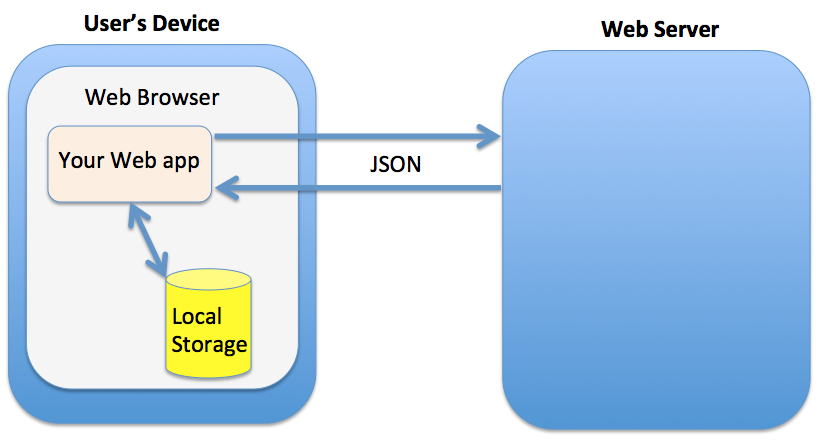
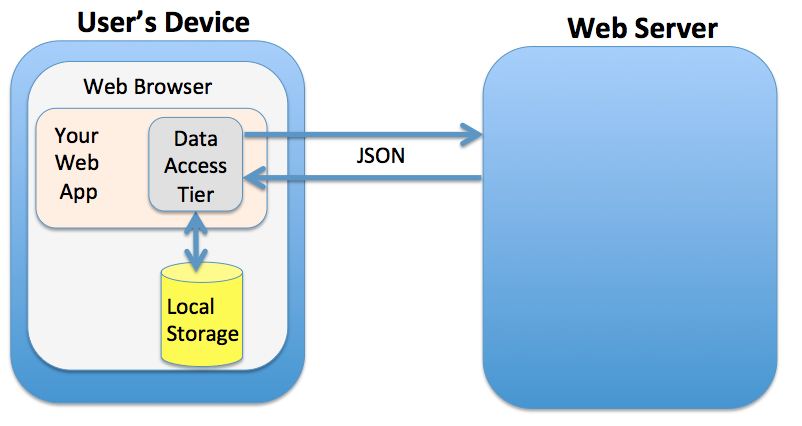
book generated and deployed at 06/10/2013-09:43:58

diff --git a/index.html b/index.html
@@ -3586,9 +3586,10 @@ http://www.gnu.org/software/src-highlite -->
 <div class="content">
 <img src="images/fig_01_03.png" alt="images/fig_01_03.png">
 </div>
-<div class="title">Figure 26. A sample Design with Offline Use</div>
+<div class="title">Figure 26. Design with Offline Use in Mind</div>
 </div>
 <div class="paragraph"><p>The business logic that supports the client&#8217;s offline functionality should be developed in JavaScript and run in the Web browser. While most of the business logic of Web applications remains on the server side, the Web client is not as thin as it used to be in legacy HTML-based applications. The client becomes fatter and it can have state.</p></div>
+<div class="paragraph"><p>It&#8217;s a good idea to create a data layer in your JavaScript code that will be responsible for all data communications. If the Internet connection is available, the data layer will be making  requests to the server, otherwise it&#8217;ll get the data from the local storage.</p></div>
 </div>
 <div class="sect3">
 <h4 id="_application_cache">Application Cache</h4>
@@ -3616,6 +3617,26 @@ http://www.gnu.org/software/src-highlite -->
   ...
 <span style="font-weight: bold"><span style="color: #0000FF">&lt;/html&gt;</span></span></tt></pre></div></div>
 <div class="paragraph"><p>The Web server must serve the manifest file with a MIME type "text/cache-manifest", and you need to refer to the documentation of your Web server to see how to see where to make a configuration change so all files with extension .manifest are served as "text/cache-manifest".</p></div>
+<div class="sect4">
+<h5 id="_is_your_application_offline">Is Your Application Offline?</h5>
+<div class="paragraph"><p>Web browsers have a <span class="monospaced">boolean</span> property <span class="monospaced">window.navigator.onLine</span>, which should be used to check if there is no connection to the Internet. The HTML5 specification states that <em>"The navigator.onLine attribute must return false if the user agent will not contact the network when the user follows links or when a script requests a remote page (or knows that such an attempt would fail), and must return true otherwise."</em> Unfortunately, major Web browsers deal with this property differently so you need to do a thorough testing to see if it works as expected with the browser you care about.</p></div>
+<div class="paragraph"><p>To intercept the changes in the connectivity status, you can also assign event listeners to the <span class="monospaced">online</span> and <span class="monospaced">offline</span> events, for example:</p></div>
+<div class="listingblock">
+<div class="content"><!-- Generator: GNU source-highlight 3.1.7
+by Lorenzo Bettini
+http://www.lorenzobettini.it
+http://www.gnu.org/software/src-highlite -->
+<pre><tt>window<span style="color: #990000">.</span><span style="font-weight: bold"><span style="color: #000000">addEventListener</span></span><span style="color: #990000">(</span><span style="color: #FF0000">"offline"</span><span style="color: #990000">,</span> <span style="font-weight: bold"><span style="color: #0000FF">function</span></span><span style="color: #990000">(</span>e<span style="color: #990000">)</span> <span style="color: #FF0000">{</span>
+    <span style="font-style: italic"><span style="color: #9A1900">// The code to be used in the offline mode goes here</span></span>
+<span style="color: #FF0000">}</span><span style="color: #990000">);</span>
+
+window<span style="color: #990000">.</span><span style="font-weight: bold"><span style="color: #000000">addEventListener</span></span><span style="color: #990000">(</span><span style="color: #FF0000">"online"</span><span style="color: #990000">,</span> <span style="font-weight: bold"><span style="color: #0000FF">function</span></span><span style="color: #990000">(</span>e<span style="color: #990000">)</span> <span style="color: #FF0000">{</span>
+    <span style="font-style: italic"><span style="color: #9A1900">// The code to synchronize the data saved in the offline mode</span></span>
+    <span style="font-style: italic"><span style="color: #9A1900">// (if any) goes here</span></span>
+<span style="color: #FF0000">}</span><span style="color: #990000">);</span></tt></pre></div></div>
+<div class="paragraph"><p>You can also add the <span class="monospaced">onoffline</span> and <span class="monospaced">ononline</span> event handlers to the <span class="monospaced">&lt;body&gt;</span> tag of your HTML page or to the <span class="monospaced">document</span> object. Again, test the support of these event in your browsers.</p></div>
+<div class="paragraph"><p>What if the browser&#8217;s support of the offline/online events is still not stable? In this you&#8217;ll have to write your own script that will periodically make an AJAX call (see Chapter 4) trying to connect to a remote server that&#8217;s always up and running, e.g. google.com. If this request fails, it&#8217;s a good indication that your application is disconnected from the Internet.</p></div>
+</div>
 </div>
 <div class="sect3">
 <h4 id="_options_for_storing_data_locally">Options for Storing Data Locally</h4>
@@ -3632,7 +3653,7 @@ http://www.gnu.org/software/src-highlite -->
 </p>
 </li>
 </ul></div>
-<div class="paragraph"><p>There is another option worth mentioning - <a href="http://www.w3.org/TR/webdatabase/">Web SQL Database</a>. It&#8217;s based on the open source SQLite database, but the work on this specification is stopped and future versions of the browsers may not support it. That&#8217;s why we are not going to discuss Web SQL here.</p></div>
+<div class="paragraph"><p>There is another option worth mentioning - <a href="http://www.w3.org/TR/webdatabase/">Web SQL Database</a>. The specification was based on the open source SQLite database, which probably was the wrong decision in the foirst place.  But the work on this specification is stopped and future versions of the browsers may not support it. That&#8217;s why we are not going to discuss Web SQL Database in this book.</p></div>
 <div class="paragraph"><p>At the time of this writing (Summer of 2013) local and session storage are supported by all modern Web browsers. Web SQL database is not supported by Firefox and Internet Explorer and most likely will never be. IndexedDB is the Web storage format of the future, but Safari doesn&#8217;t support it yet, so if your main development platform is iOS, you may need to stick to Web SQL database. Consider using a polyfill for indexedDB using Web SQL API called <a href="https://github.com/axemclion/IndexedDBShim">IndexedDBShim</a>.</p></div>
 <div class="paragraph"><p>To get the current status visit caniuse.com and search for the API you&#8217;re interested in.</p></div>
 <div class="admonitionblock">
@@ -3789,6 +3810,7 @@ Re-reading visit info after removal
 <td class="content">If you are interested in intercepting the moments when the content of local storage gets modified, listen to the DOM <span class="monospaced">storage</span> event, which carries the old and new values and the URL of the page whose data is being changed.</td>
 </tr></table>
 </div>
+<div class="paragraph"><p>The Web storage API is pretty simple to use, but its major drawbacks are that it doesn&#8217;t give you a way to put any structure to your stored data, you always have to store strings, and the API is synchronous, which may case delays in the user interaction when your application is accessing the disk. In the next section you&#8217;ll learn about a more advanced way of storing data on the user&#8217;s computer.</p></div>
 </div>
 <div class="sect3">
 <h4 id="_indexeddb">IndexedDB</h4>
@@ -3803,27 +3825,68 @@ http://www.lorenzobettini.it
 http://www.gnu.org/software/src-highlite -->
 <pre><tt>window<span style="color: #990000">.</span>indexedDB <span style="color: #990000">=</span> window<span style="color: #990000">.</span>indexedDB <span style="color: #990000">||</span> window<span style="color: #990000">.</span>mozIndexedDB
       <span style="color: #990000">||</span> window<span style="color: #990000">.</span>msIndexedDB <span style="color: #990000">||</span> window<span style="color: #990000">.</span>webkitIndexedDB <span style="color: #990000">;</span>
-window<span style="color: #990000">.</span>IDBTransaction <span style="color: #990000">=</span> window<span style="color: #990000">.</span>IDBTransaction <span style="color: #990000">||</span> window<span style="color: #990000">.</span>webkitIDBTransaction<span style="color: #990000">;</span>
-window<span style="color: #990000">.</span>IDBCursor <span style="color: #990000">=</span> window<span style="color: #990000">.</span>IDBCursor <span style="color: #990000">||</span> window<span style="color: #990000">.</span>webkitIDBCursor<span style="color: #990000">;</span>
-window<span style="color: #990000">.</span>IDBKeyRange <span style="color: #990000">=</span> window<span style="color: #990000">.</span>IDBKeyRange <span style="color: #990000">||</span> window<span style="color: #990000">.</span>webkitIDBKeyRange<span style="color: #990000">;</span></tt></pre></div></div>
-<div class="paragraph"><p>Every object that you are planning to store in the database has to have one property that plays a role similar to a primary key in a relational database. You have to decide if you want to maintain the value in this property manually, or use the the autoincrement option where the values to this property will be assigned automatically.</p></div>
-<div class="paragraph"><p>IndexedDB doesn&#8217;t require you to describe a formal structure of your stored object - any JavaScript object can be stored there. This is also an advantage comparing to the relational databases where you can&#8217;t store the data until the structure of the tables is defined.</p></div>
-<div class="paragraph"><p>Similarly to relational databases you create indexes based on the searches that you run often. For example, if you need to search on the contact name in the Visits database, create an index on the property <span class="monospaced">contactPerson</span> of the <span class="monospaced">Visit</span> object. But if in relational database creation of index was optional, with IndexedDB you can&#8217;t run a query unless the index on the relevant property exists.</p></div>
+<span style="font-weight: bold"><span style="color: #0000FF">if</span></span> <span style="color: #990000">(!</span>window<span style="color: #990000">.</span>indexedDB<span style="color: #990000">)</span><span style="color: #FF0000">{</span>
+   <span style="font-style: italic"><span style="color: #9A1900">// this browser doesn't support IndexedDB</span></span>
+<span style="color: #FF0000">}</span> <span style="font-weight: bold"><span style="color: #0000FF">else</span></span> <span style="color: #FF0000">{</span>
+  window<span style="color: #990000">.</span>IDBTransaction <span style="color: #990000">=</span> window<span style="color: #990000">.</span>IDBTransaction <span style="color: #990000">||</span> window<span style="color: #990000">.</span>webkitIDBTransaction<span style="color: #990000">;</span>
+  window<span style="color: #990000">.</span>IDBCursor <span style="color: #990000">=</span> window<span style="color: #990000">.</span>IDBCursor <span style="color: #990000">||</span> window<span style="color: #990000">.</span>webkitIDBCursor<span style="color: #990000">;</span>
+  window<span style="color: #990000">.</span>IDBKeyRange <span style="color: #990000">=</span> window<span style="color: #990000">.</span>IDBKeyRange <span style="color: #990000">||</span> window<span style="color: #990000">.</span>webkitIDBKeyRange<span style="color: #990000">;</span>
+<span style="color: #FF0000">}</span></tt></pre></div></div>
+<div class="paragraph"><p>IndexedDB doesn&#8217;t require you to describe a formal structure of your stored object - any JavaScript object can be stored there. Think of a database as an <em>object store</em> that allows to store similar objects, e.g. representing salesman&#8217;s visits. Not having a formal definition of a database scheme is an advantage comparing to the relational databases where you can&#8217;t store the data until the structure of the tables is defined.</p></div>
+<div class="paragraph"><p>Every object that you are planning to store in the database has to have one property that plays a role similar to a primary key in a relational database. You have to decide if you want to maintain the value in this property manually, or use the the <span class="monospaced">autoIncrement</span> option where the values to this property will be assigned automatically. Coming back to our Visits example, you can either maintain the unique values of the <span class="monospaced">officeId</span> on your own or create a surrogate key that will be assigned by IndexedDB. The current generated number to be used as surrogate keys never decreases, and starts with the value of 1 in each object store.</p></div>
+<div class="paragraph"><p>Similarly to relational databases you create indexes based on the searches that you run often. For example, if you need to search on the contact name in the Visits database, create an index on the property <span class="monospaced">contactPerson</span> of the <span class="monospaced">Visit</span> object. But if in relational databases creation of indexes is done for performance reasons, with IndexedDB you can&#8217;t run a query unless the index on the relevant property exists. The following code sample shows how to connect to the existing or create a new database <span class="monospaced">Visits</span>.</p></div>
 <div class="listingblock">
 <div class="content"><!-- Generator: GNU source-highlight 3.1.7
 by Lorenzo Bettini
 http://www.lorenzobettini.it
 http://www.gnu.org/software/src-highlite -->
 <pre><tt><span style="font-weight: bold"><span style="color: #0000FF">var</span></span> indexedDB <span style="color: #990000">=</span> window<span style="color: #990000">.</span>indexedDB<span style="color: #990000">;</span>
-<span style="font-weight: bold"><span style="color: #0000FF">var</span></span> visits <span style="color: #990000">=</span> indexedDB<span style="color: #990000">.</span><span style="font-weight: bold"><span style="color: #000000">open</span></span><span style="color: #990000">(</span><span style="color: #FF0000">'Visits'</span><span style="color: #990000">);</span>
+<span style="font-weight: bold"><span style="color: #0000FF">var</span></span> request <span style="color: #990000">=</span> indexedDB<span style="color: #990000">.</span><span style="font-weight: bold"><span style="color: #000000">open</span></span><span style="color: #990000">(</span><span style="color: #FF0000">'Visits'</span><span style="color: #990000">);</span>     <span style="font-style: italic"><span style="color: #9A1900">// <img src="images/icons/callouts/1.png" alt="1"></span></span>
 
-visits<span style="color: #990000">.</span>onsuccess <span style="color: #990000">=</span> <span style="font-weight: bold"><span style="color: #0000FF">function</span></span><span style="color: #990000">(</span>response<span style="color: #990000">)</span> <span style="color: #FF0000">{</span>
-    <span style="font-weight: bold"><span style="color: #0000FF">var</span></span> myVisits <span style="color: #990000">=</span> visits<span style="color: #990000">.</span>result<span style="color: #990000">;</span>
+request<span style="color: #990000">.</span>onsuccess <span style="color: #990000">=</span> <span style="font-weight: bold"><span style="color: #0000FF">function</span></span><span style="color: #990000">(</span>event<span style="color: #990000">)</span> <span style="color: #FF0000">{</span>       <span style="font-style: italic"><span style="color: #9A1900">// <img src="images/icons/callouts/2.png" alt="2"></span></span>
+    <span style="font-weight: bold"><span style="color: #0000FF">var</span></span> myVisitsDB <span style="color: #990000">=</span> request<span style="color: #990000">.</span>result<span style="color: #990000">;</span>
+
 <span style="color: #FF0000">}</span><span style="color: #990000">;</span>
 
-visits<span style="color: #990000">.</span>onerror <span style="color: #990000">=</span> <span style="font-weight: bold"><span style="color: #0000FF">function</span></span> <span style="color: #990000">(</span>response<span style="color: #990000">)</span> <span style="color: #FF0000">{</span>
-    console<span style="color: #990000">.</span><span style="font-weight: bold"><span style="color: #000000">log</span></span><span style="color: #990000">(</span><span style="color: #FF0000">"Can't retrieve visits info: "</span> <span style="color: #990000">+</span> response<span style="color: #990000">.</span>target<span style="color: #990000">.</span>errorCode<span style="color: #990000">);</span>
-<span style="color: #FF0000">}</span><span style="color: #990000">;</span></tt></pre></div></div>
+request<span style="color: #990000">.</span>onerror <span style="color: #990000">=</span> <span style="font-weight: bold"><span style="color: #0000FF">function</span></span> <span style="color: #990000">(</span>event<span style="color: #990000">)</span> <span style="color: #FF0000">{</span>        <span style="font-style: italic"><span style="color: #9A1900">// <img src="images/icons/callouts/3.png" alt="3"></span></span>
+    console<span style="color: #990000">.</span><span style="font-weight: bold"><span style="color: #000000">log</span></span><span style="color: #990000">(</span><span style="color: #FF0000">"Can't retrieve visits info: "</span> <span style="color: #990000">+</span> event<span style="color: #990000">.</span>target<span style="color: #990000">.</span>errorCode<span style="color: #990000">);</span>
+<span style="color: #FF0000">}</span><span style="color: #990000">;</span>
+
+request<span style="color: #990000">.</span>onupgradeneeded <span style="color: #990000">=</span> <span style="font-weight: bold"><span style="color: #0000FF">function</span></span><span style="color: #990000">(</span>event<span style="color: #990000">)</span><span style="color: #FF0000">{</span>  <span style="font-style: italic"><span style="color: #9A1900">// <img src="images/icons/callouts/4.png" alt="4"></span></span>
+
+<span style="color: #FF0000">}</span></tt></pre></div></div>
+<div class="colist arabic"><table>
+<tr><td><img src="images/icons/callouts/1.png" alt="1"></td><td>
+The browser invokes the method <span class="monospaced">open()</span> asynchronously requesting to establish the connection with the database. It doesn&#8217;t wait for the  completion of this request, and the user can continue working with the Web page without any delays or interruptions.
+</td></tr>
+<tr><td><img src="images/icons/callouts/2.png" alt="2"></td><td>
+When the connection is successfully obtained, the <span class="monospaced">onsuccess</span> function handler will be invoked, otherwise the control goes to the <span class="monospaced">onerror</span> handler.
+</td></tr>
+<tr><td><img src="images/icons/callouts/3.png" alt="3"></td><td>
+Error handling is done here. The event object given to the <span class="monospaced">onerror</span> handler will contain the information about the error.
+</td></tr>
+<tr><td><img src="images/icons/callouts/4.png" alt="4"></td><td>
+The <span class="monospaced">onupgradeneeded</span> handler is the place to create a new storage or process the event when the database has to be modified.
+</td></tr>
+</table></div>
+<div class="sect4">
+<h5 id="_creating_a_new_database_and_versioning">Creating a new Database and Versioning</h5>
+<div class="paragraph"><p>In the world of traditional DBMS servers, when the database structure has to be modified, the DBA will do this upgrade, the server will be restarted and the users start working with the <em>new version</em> of the database. With IndexedDB it works differently. Each database has a version assigned to it, and if the <span class="monospaced">onupgradeneeded</span> event is triggered, this means that the local user&#8217;s version is older that needed for the freshly loaded application.</p></div>
+<div class="paragraph"><p>The initial creation of the database has to be controlled in the  <span class="monospaced">onupgradeneeded</span> handler - the absence of the database also falls under the "upgrade is needed" case.</p></div>
+<div class="paragraph"><p>The version of the IndexDB may need to be upgraded, and the method <span class="monospaced">open()</span> takes a second parameter - the database version to be used.The object returned by the method <span class="monospaced">open()</span> has a property <span class="monospaced">onupgradeneeded</span>, and you can assign an event handler to it in which you should create a database with <span class="monospaced">createObjectStore()</span> method.</p></div>
+<div class="admonitionblock">
+<table><tr>
+<td class="icon">
+<img src="images/icons/warning.png" alt="Warning">
+</td>
+<td class="content">IndexedDB doesn&#8217;t offer a secure way of storing data. Anyone who has access to the user&#8217;s computer can get a hold of the data stored in IndexedDB. Do not store locally any sensitive data.</td>
+</tr></table>
+</div>
+</div>
+<div class="sect4">
+<h5 id="_transactions_support">Transactions Support</h5>
+<div class="paragraph"><p>TBD</p></div>
+</div>
 </div>
 </div>
 <div class="sect2">
@@ -3867,7 +3930,8 @@ http://www.gnu.org/software/src-highlite -->
 
          <span style="color: #990000">&lt;</span>h1<span style="color: #990000">&gt;</span>Click on Link and watch the address bar<span style="color: #990000">...&lt;/</span>h1<span style="color: #990000">&gt;</span>
 
-    <span style="color: #990000">&lt;</span>button type<span style="color: #990000">=</span><span style="color: #FF0000">"button"</span> onclick<span style="color: #990000">=</span><span style="color: #FF0000">"whoWeAre()"</span><span style="color: #990000">&gt;</span>Who we are<span style="color: #990000">&lt;/</span>button<span style="color: #990000">&gt;</span>  <span style="color: #990000">&lt;!--</span> <span style="color: #990000">&lt;</span><span style="color: #993399">1</span><span style="color: #990000">&gt;</span>  <span style="color: #990000">--&gt;</span>
+    <span style="color: #990000">&lt;</span>button type<span style="color: #990000">=</span><span style="color: #FF0000">"button"</span> onclick<span style="color: #990000">=</span><span style="color: #FF0000">"whoWeAre()"</span><span style="color: #990000">&gt;</span>Who we are<span style="color: #990000">&lt;/</span>button<span style="color: #990000">&gt;</span>
+<span style="color: #990000">&lt;!--</span> <span style="color: #990000">&lt;</span><span style="color: #993399">1</span><span style="color: #990000">&gt;</span> <span style="color: #990000">--&gt;</span>
 
     <span style="color: #990000">&lt;</span>button type<span style="color: #990000">=</span><span style="color: #FF0000">"button"</span> onclick<span style="color: #990000">=</span><span style="color: #FF0000">"whatWeDo()"</span><span style="color: #990000">&gt;</span>What we <span style="font-weight: bold"><span style="color: #0000FF">do</span></span><span style="color: #990000">&lt;/</span>button<span style="color: #990000">&gt;</span>
 
